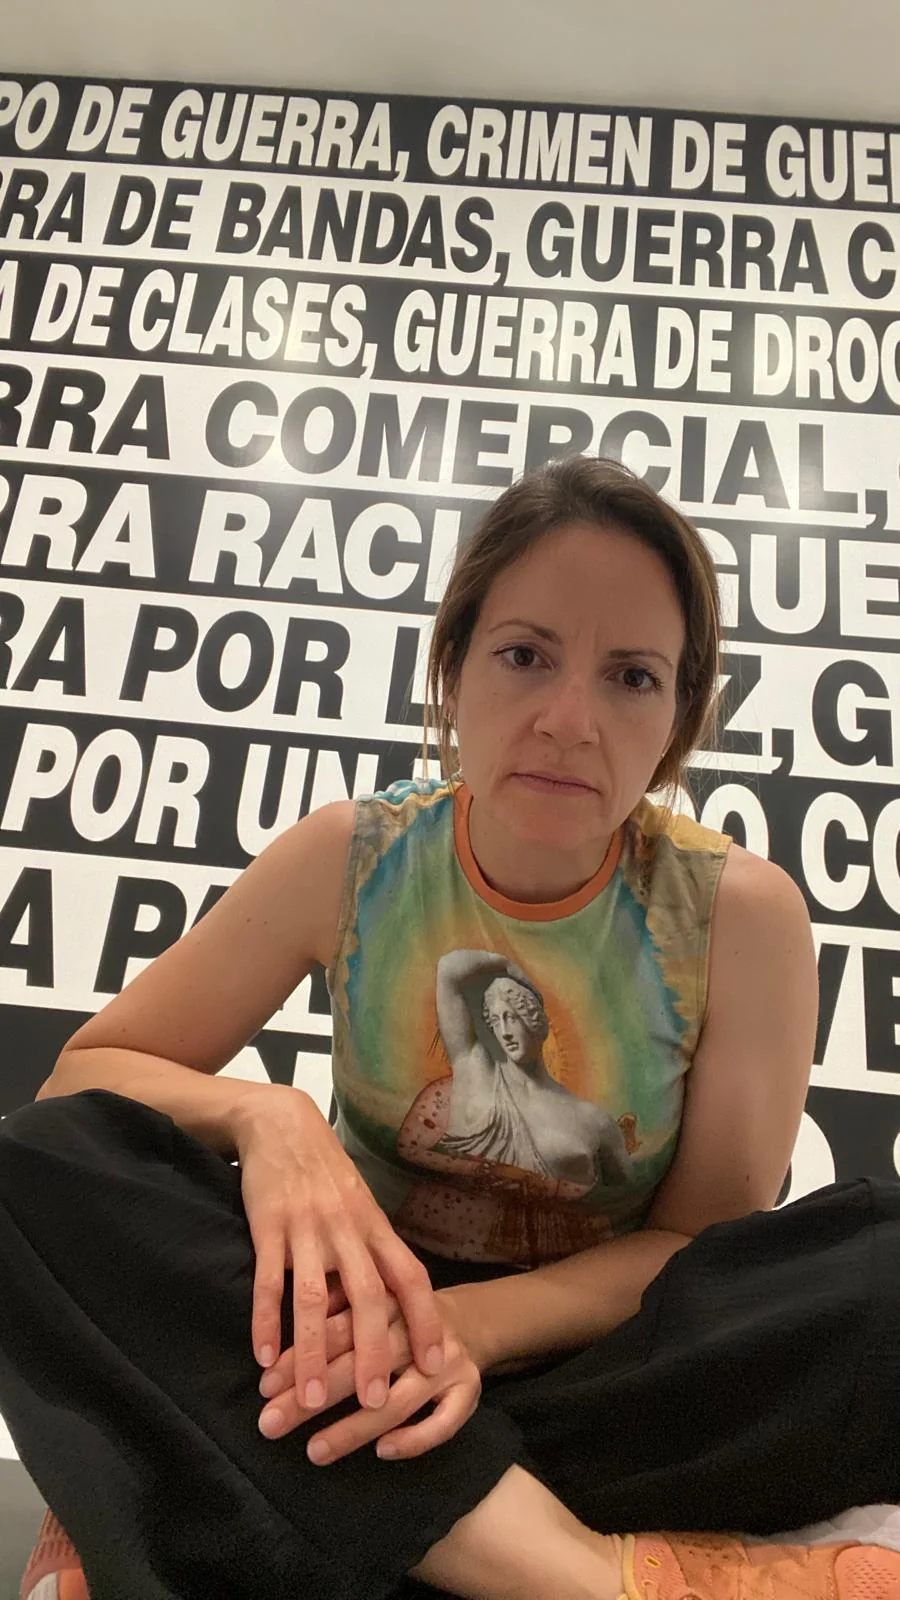
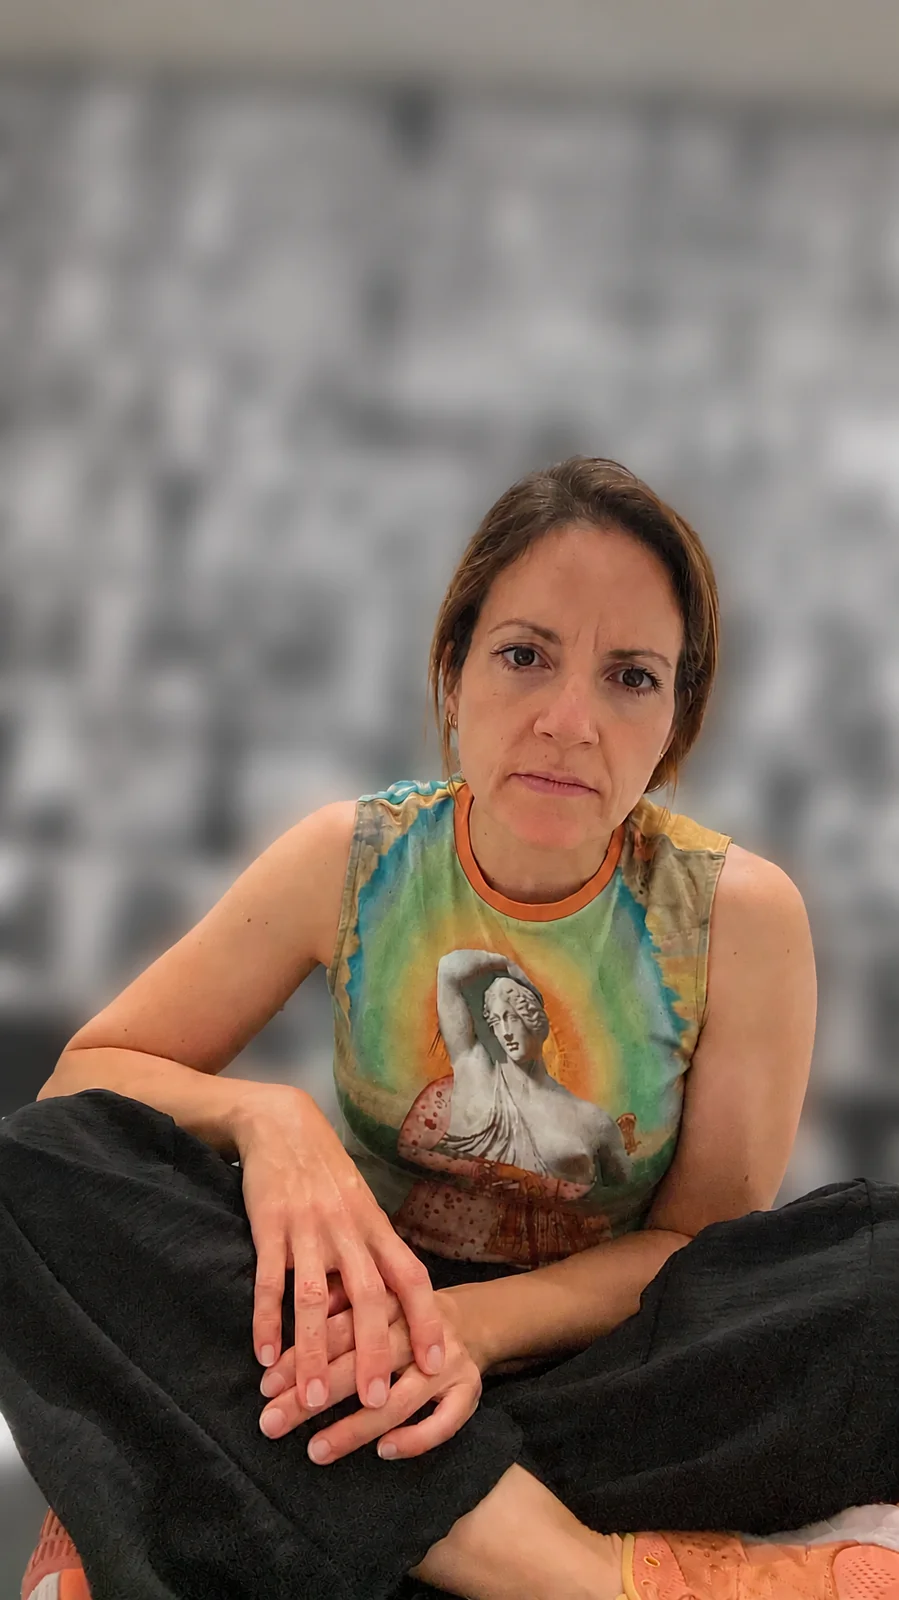
Ajusta recorte de fotos, añade foto de Sobre mí y portada de la maqueta

diff --git a/css/estilos.css b/css/estilos.css
@@ -376,7 +376,8 @@
 
 .expecta-encargos .categoria-img-wrap {
   width: 100%;
-  aspect-ratio: 4 / 3;
+  aspect-ratio: 3 / 4;
+  /* ← cambia 4 / 3 por 3 / 4 */
   overflow: hidden;
   background-color: rgba(30, 27, 36, 0.04);
 }
@@ -385,6 +386,7 @@
   width: 100%;
   height: 100%;
   object-fit: cover;
+  object-position: center 25%;
   display: block;
   transition: transform 600ms ease;
 }
@@ -529,7 +531,7 @@
 .expecta-encargos .trabajo-img-wrap {
   position: relative;
   width: 100%;
-  aspect-ratio: 1 / 1;
+  aspect-ratio: 3 / 4;
   overflow: hidden;
   background-color: rgba(30, 27, 36, 0.04);
   cursor: pointer;
@@ -588,6 +590,7 @@
   width: 100%;
   height: 100%;
   object-fit: cover;
+  object-position: center 25%;
   display: block;
   transition: transform 500ms ease;
 }
@@ -896,180 +899,181 @@
 }
 
 
+.expecta-encargos .sobre-mi-layout {
+  display: flex;
+  flex-direction: column;
+  align-items: center;
+  gap: 36px;
+  max-width: 1040px;
+  margin: 0 auto;
+  position: relative;
+}
+
+@media (min-width: 860px) {
   .expecta-encargos .sobre-mi-layout {
-    display: flex;
-    flex-direction: column;
+    flex-direction: row;
     align-items: center;
-    gap: 36px;
-    max-width: 1040px;
-    margin: 0 auto;
-    position: relative;
+    gap: 56px;
   }
+}
 
-  @media (min-width: 860px) {
-    .expecta-encargos .sobre-mi-layout {
-      flex-direction: row;
-      align-items: center;
-      gap: 56px;
-    }
-  }
+.expecta-encargos .sobre-mi-foto-wrap {
+  width: 100%;
+  max-width: 320px;
+  aspect-ratio: 9 / 14;
+  flex-shrink: 0;
+  border-radius: var(--radio-suave);
+  overflow: hidden;
+  box-shadow: var(--sombra-tarjeta);
+}
 
+@media (min-width: 860px) {
   .expecta-encargos .sobre-mi-foto-wrap {
-    width: 100%;
-    max-width: 320px;
-    aspect-ratio: 9 / 14;
-    flex-shrink: 0;
-    border-radius: var(--radio-suave);
-    overflow: hidden;
-    box-shadow: var(--sombra-tarjeta);
+    max-width: 350px;
   }
+}
 
-  @media (min-width: 860px) {
-    .expecta-encargos .sobre-mi-foto-wrap {
-      max-width: 350px;
-    }
-  }
+.expecta-encargos .sobre-mi-foto {
+  width: 100%;
+  height: 100%;
+  object-fit: cover;
+  object-position: center 30%;
+  display: block;
+}
 
-  .expecta-encargos .sobre-mi-foto {
-    width: 100%;
-    height: 100%;
-    object-fit: cover;
-    display: block;
-  }
+.expecta-encargos .sobre-mi-bloque {
+  flex: 1;
+  text-align: left;
+  position: relative;
+}
 
+@media (max-width: 859px) {
   .expecta-encargos .sobre-mi-bloque {
-    flex: 1;
-    text-align: left;
-    position: relative;
+    text-align: center;
   }
+}
 
-  @media (max-width: 859px) {
-    .expecta-encargos .sobre-mi-bloque {
-      text-align: center;
-    }
-  }
+.expecta-encargos .sobre-mi-texto {
+  font-family: var(--fuente-titulos);
+  font-size: 1.45rem;
+  line-height: 1.65;
+  color: var(--tinta);
+  font-style: italic;
+  font-weight: 500;
+  margin: 0 0 28px 0;
+}
 
+@media (min-width: 768px) {
   .expecta-encargos .sobre-mi-texto {
-    font-family: var(--fuente-titulos);
-    font-size: 1.45rem;
-    line-height: 1.65;
-    color: var(--tinta);
-    font-style: italic;
-    font-weight: 500;
-    margin: 0 0 28px 0;
+    font-size: 1.85rem;
   }
+}
 
-  @media (min-width: 768px) {
-    .expecta-encargos .sobre-mi-texto {
-      font-size: 1.85rem;
-    }
-  }
+.expecta-encargos .sobre-mi-firma {
+  font-family: var(--fuente-texto);
+  font-size: 0.9rem;
+  letter-spacing: 0.14em;
+  text-transform: uppercase;
+  color: var(--sepia);
+  display: block;
+}
 
-  .expecta-encargos .sobre-mi-firma {
-    font-family: var(--fuente-texto);
-    font-size: 0.9rem;
-    letter-spacing: 0.14em;
-    text-transform: uppercase;
-    color: var(--sepia);
-    display: block;
-  }
-
-  /* ==========================================================================
+/* ==========================================================================
    6. Pie de página (Footer)
    ========================================================================== */
-  .expecta-encargos .pie-pagina {
-    border-top: 1px solid rgba(30, 27, 36, 0.2);
-    padding: 50px 0 60px 0;
-    text-align: center;
-    background-color: var(--papel);
-  }
+.expecta-encargos .pie-pagina {
+  border-top: 1px solid rgba(30, 27, 36, 0.2);
+  padding: 50px 0 60px 0;
+  text-align: center;
+  background-color: var(--papel);
+}
 
+.expecta-encargos .pie-enlaces {
+  display: flex;
+  flex-direction: column;
+  align-items: center;
+  gap: 16px;
+  margin-bottom: 28px;
+}
+
+@media (min-width: 600px) {
   .expecta-encargos .pie-enlaces {
-    display: flex;
-    flex-direction: column;
-    align-items: center;
-    gap: 16px;
-    margin-bottom: 28px;
+    flex-direction: row;
+    justify-content: center;
+    gap: 32px;
   }
+}
 
-  @media (min-width: 600px) {
-    .expecta-encargos .pie-enlaces {
-      flex-direction: row;
-      justify-content: center;
-      gap: 32px;
-    }
-  }
+.expecta-encargos .pie-enlace {
+  display: inline-flex;
+  align-items: center;
+  gap: 8px;
+  font-size: 0.95rem;
+  letter-spacing: 0.02em;
+  color: var(--tinta);
+}
 
-  .expecta-encargos .pie-enlace {
-    display: inline-flex;
-    align-items: center;
-    gap: 8px;
-    font-size: 0.95rem;
-    letter-spacing: 0.02em;
-    color: var(--tinta);
-  }
+.expecta-encargos .pie-enlace:hover {
+  color: var(--anil);
+}
 
-  .expecta-encargos .pie-enlace:hover {
-    color: var(--anil);
-  }
+.expecta-encargos .pie-creditos {
+  font-size: 0.88rem;
+  color: rgba(30, 27, 36, 0.65);
+  margin: 0;
+}
 
-  .expecta-encargos .pie-creditos {
-    font-size: 0.88rem;
-    color: rgba(30, 27, 36, 0.65);
-    margin: 0;
-  }
-
-  /* ==========================================================================
+/* ==========================================================================
    Botón flotante de WhatsApp (móvil)
    ========================================================================== */
+.expecta-encargos .btn-wa-flotante {
+  position: fixed;
+  bottom: 24px;
+  right: 20px;
+  width: 52px;
+  height: 52px;
+  background-color: var(--tinta);
+  color: var(--papel);
+  border: 1px solid var(--tinta);
+  border-radius: 50%;
+  display: flex;
+  align-items: center;
+  justify-content: center;
+  box-shadow: var(--sombra-flotante);
+  z-index: 99;
+  transition: var(--transicion-suave);
+}
+
+.expecta-encargos .btn-wa-flotante:hover {
+  background-color: var(--anil);
+  border-color: var(--anil);
+  color: var(--papel);
+  transform: scale(1.06);
+}
+
+.expecta-encargos .btn-wa-flotante svg {
+  width: 26px;
+  height: 26px;
+  fill: currentColor;
+}
+
+@media (min-width: 768px) {
   .expecta-encargos .btn-wa-flotante {
-    position: fixed;
-    bottom: 24px;
-    right: 20px;
-    width: 52px;
-    height: 52px;
-    background-color: var(--tinta);
-    color: var(--papel);
-    border: 1px solid var(--tinta);
-    border-radius: 50%;
-    display: flex;
-    align-items: center;
-    justify-content: center;
-    box-shadow: var(--sombra-flotante);
-    z-index: 99;
-    transition: var(--transicion-suave);
+    display: none;
   }
+}
 
-  .expecta-encargos .btn-wa-flotante:hover {
-    background-color: var(--anil);
-    border-color: var(--anil);
-    color: var(--papel);
-    transform: scale(1.06);
-  }
-
-  .expecta-encargos .btn-wa-flotante svg {
-    width: 26px;
-    height: 26px;
-    fill: currentColor;
-  }
-
-  @media (min-width: 768px) {
-    .expecta-encargos .btn-wa-flotante {
-      display: none;
-    }
-  }
-
-  /* ==========================================================================
+/* ==========================================================================
    Accesibilidad: Reducción de movimiento
    ========================================================================== */
-  @media (prefers-reduced-motion: reduce) {
+@media (prefers-reduced-motion: reduce) {
 
-    .expecta-encargos *,
-    .expecta-encargos *::before,
-    .expecta-encargos *::after {
-      animation-duration: 0.01ms !important;
-      animation-iteration-count: 1 !important;
-      transition-duration: 0.01ms !important;
-      scroll-behavior: auto !important;
-    }
+  .expecta-encargos *,
+  .expecta-encargos *::before,
+  .expecta-encargos *::after {
+    animation-duration: 0.01ms !important;
+    animation-iteration-count: 1 !important;
+    transition-duration: 0.01ms !important;
+    scroll-behavior: auto !important;
   }
+}

diff --git a/js/trabajos.js b/js/trabajos.js
@@ -72,6 +72,7 @@ const trabajos = [
     categoria: "otros",
     descripcion: "Maqueta hecha a mano con miniaturas: muros desconchados, ladrillo visto, pila de lavar, farol y utensilios envejecidos.",
     imagenes: [
+      { src: "img/otros/maqueta-completa.webp", ancho: 1200, alto: 1600, alt: "Maqueta rústica completa: estancia encalada con vigas de madera, puerta, pila de lavar y barreño" },
       { src: "img/otros/maqueta-rincon.webp", ancho: 1200, alto: 1600, alt: "Rincón de la maqueta: muro desconchado, barreño y puerta de madera" },
       { src: "img/otros/maqueta-pila.webp", ancho: 1200, alto: 1600, alt: "Detalle de la maqueta: pila de lavar, grifo y farolillo" },
       { src: "img/otros/miniaturas-barreno-cubo.webp", ancho: 1600, alto: 1200, alt: "Miniaturas de barreño y cubo con acabado oxidado" },
